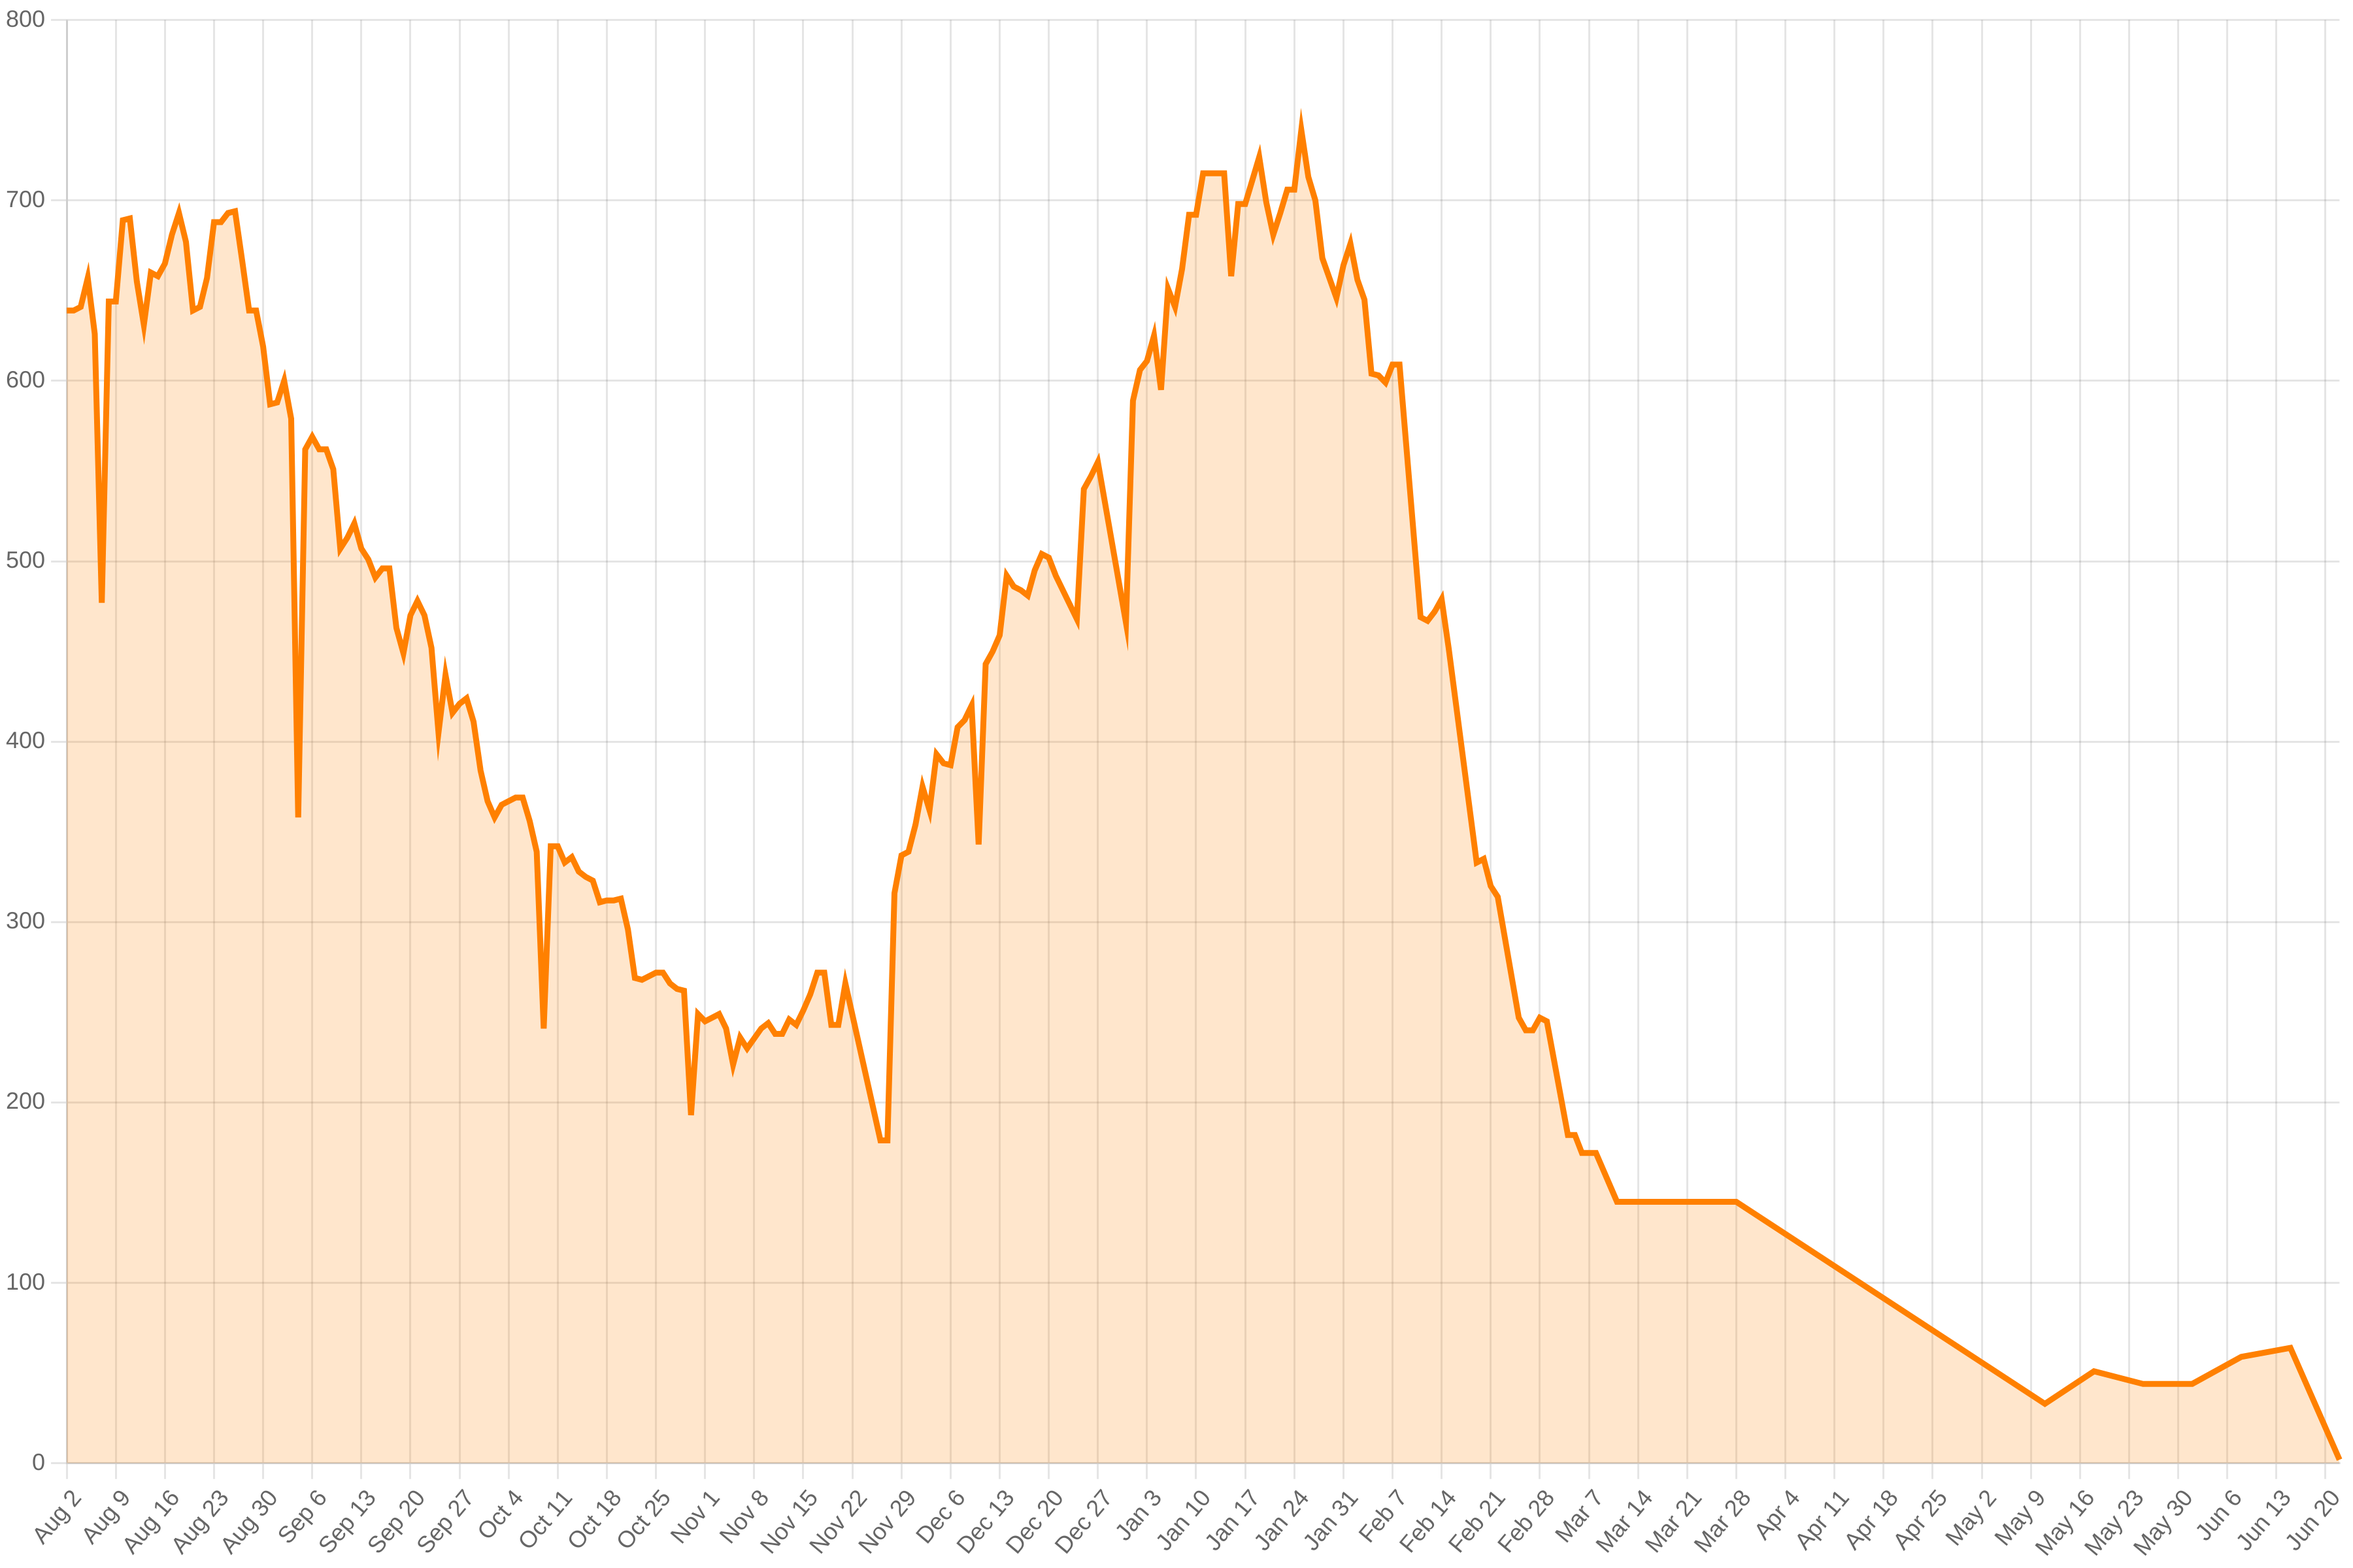
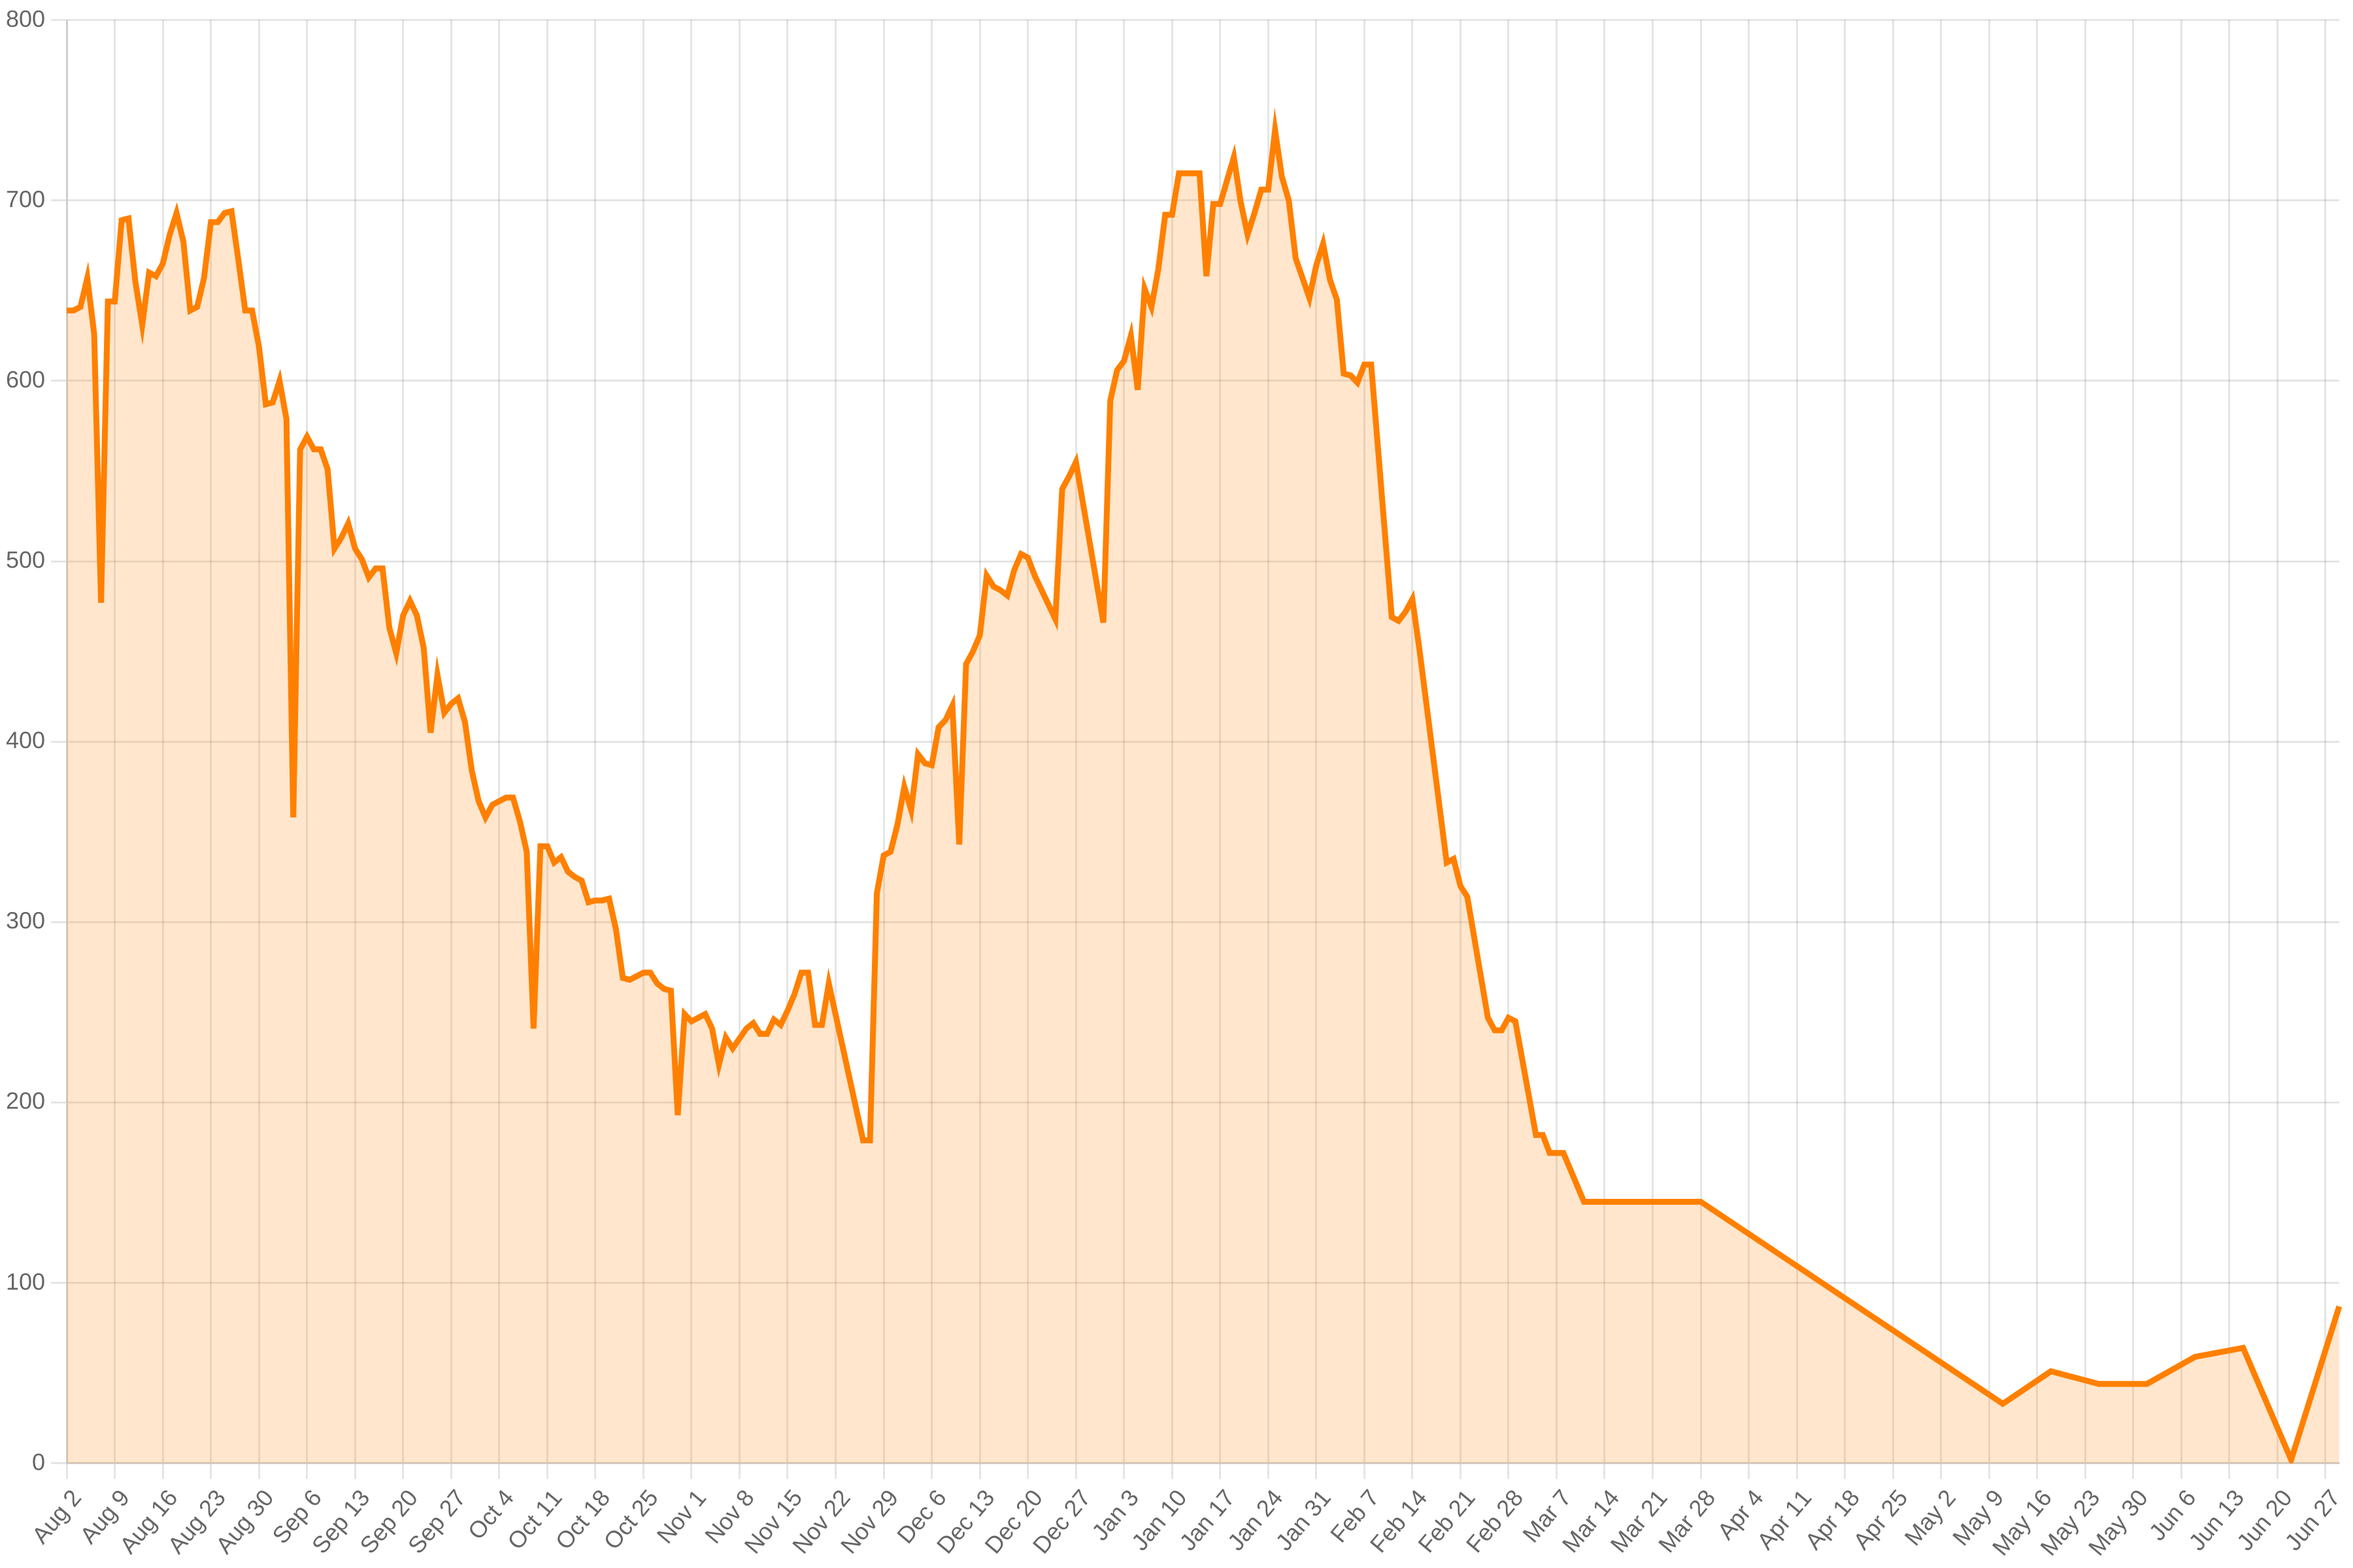
regular update

diff --git a/docs/index.html b/docs/index.html
@@ -43,10 +43,10 @@
     <main>
       <h1>Missouri COVID data</h1>
       <p>
-        The data on this page was updated <strong>Friday, June 24, 2022</strong>. For
+        The data on this page was updated <strong>Friday, July 1, 2022</strong>. For
         the values that are averages over 7 days, the start date is
-        <strong>Thursday, June 16, 2022</strong> and the end date is
-        <strong>Wednesday, June 22, 2022</strong>. The original data comes from the
+        <strong>Thursday, June 23, 2022</strong> and the end date is
+        <strong>Wednesday, June 29, 2022</strong>. The original data comes from the
         <a
           href="https://results.mo.gov/t/COVID19/views/WeeklyCOVIDMockup_16487370423730/WeeklyReport-Revised-v2?:embed=y&:showVizHome=no&:host_url=https%3A%2F%2Fresults.mo.gov%2F&:embed_code_version=3&:tabs=no&:toolbar=no&:showAppBanner=false&:display_spinner=no&:loadOrderID=0"
           >Missouri Department of Health and Senior Services</a
@@ -79,19 +79,19 @@
 
       <h2>New cases</h2>
       <p>
-        There have been <strong>10,557</strong> new cases in the
-        past 7 days, about <strong>1,508 per day</strong>.
+        There have been <strong>12,174</strong> new cases in the
+        past 7 days, about <strong>1,739 per day</strong>.
       </p>
       <img src="charts/totalPositive.png" />
 
       <h2>Outcomes</h2>
       <p>
-        There are currently 816 people hospitalized with
+        There are currently 762 people hospitalized with
         COVID-19.
       </p>
       <img src="charts/hospitalizations.png" />
 
-      <p>2 people are in intensive care.</p>
+      <p>87 people are in intensive care.</p>
       <img src="charts/icu.png" />
 
       <h2>Unavailable</h2>
